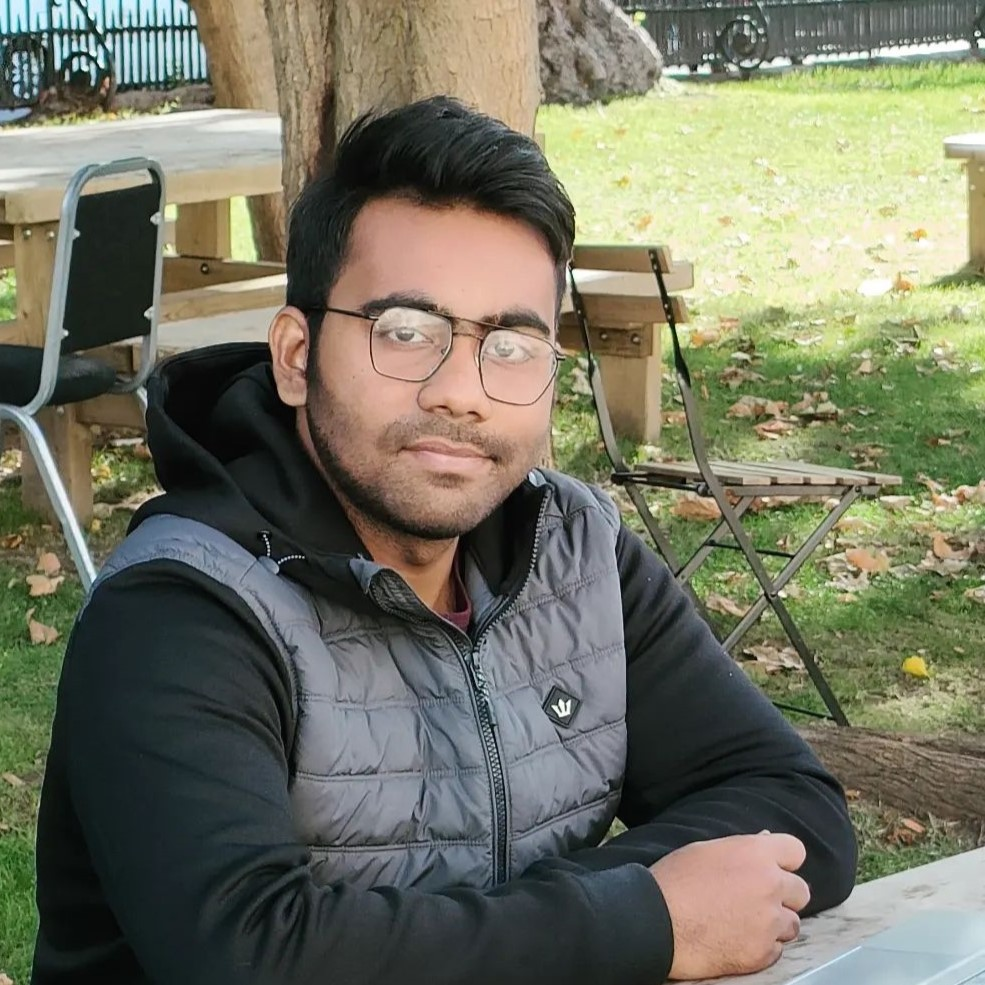
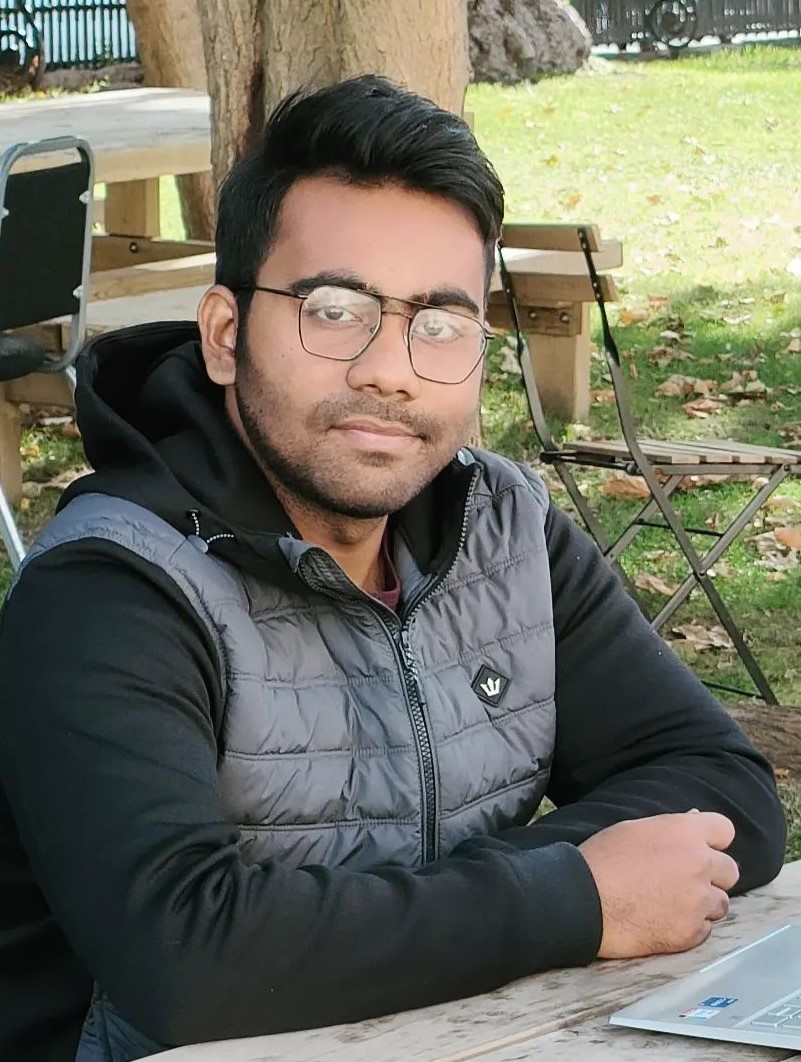
Update homepage

diff --git a/index.html b/index.html
@@ -141,7 +141,7 @@
                         <div class="slider_text text-left">
 							
 							
-                                <div><img class="circular_image" src="img/gallery/73.jpg"/></div><br>
+                                <div><img  src="img/gallery/73.jpg"/></div><br>
                                 <br>
 							 </div>
                     </div>
